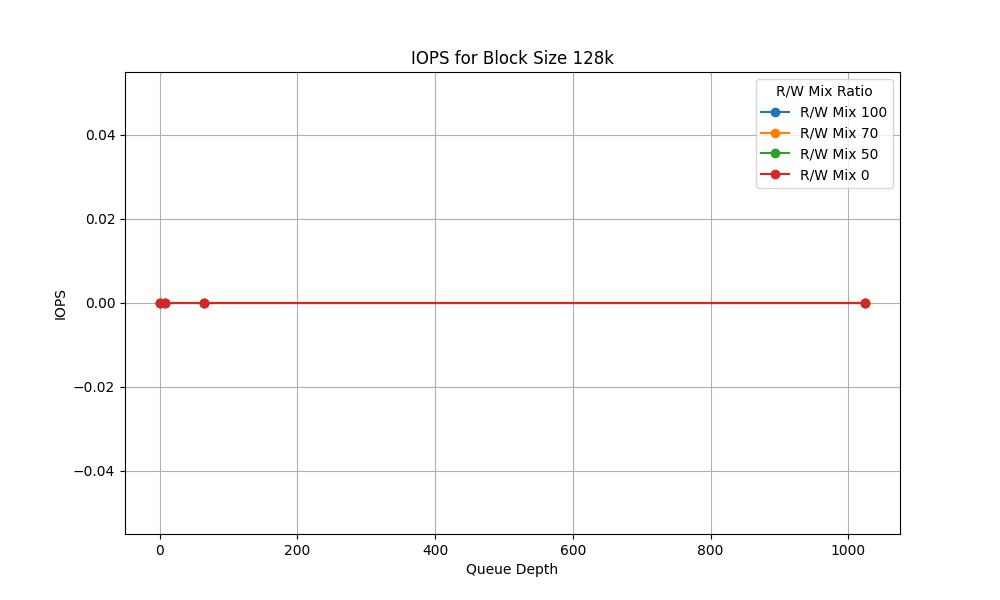
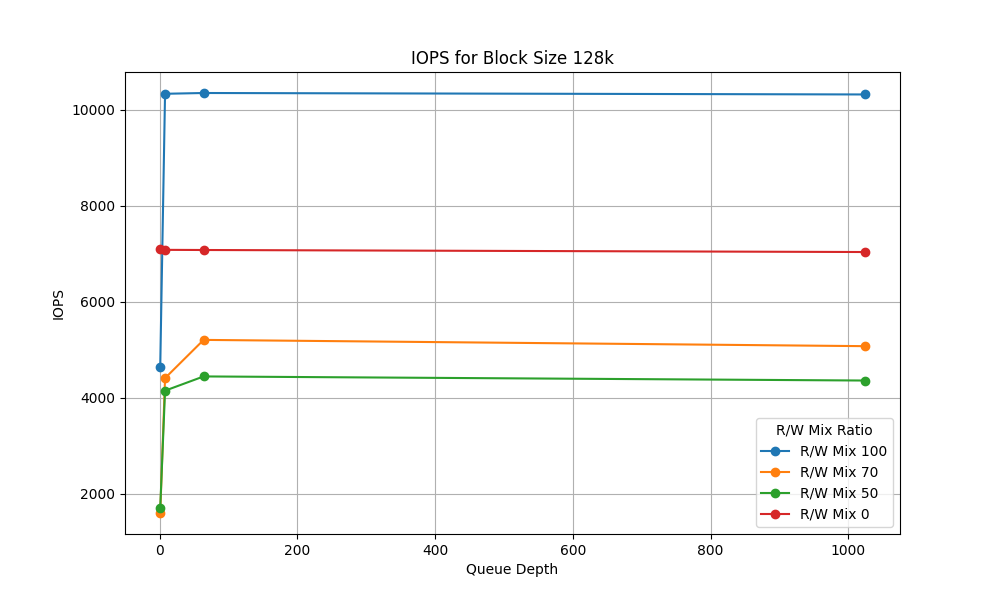
add 128k IOPS plot

diff --git a/proj3/plot_fio_results.py b/proj3/plot_fio_results.py
@@ -18,7 +18,6 @@ def parse_fio_json(file_path):
     read_lat = job['read']['clat_ns']['mean'] / 1000  # Convert ns to µs
     write_lat = job['write']['clat_ns']['mean'] / 1000 if job['write']['iops'] > 0 else None
     #bw = job['read']['bw'] if job['read']['bw'] > 0 else job['write']['bw']  # in KiB/s
-    iops = 0
     if job['job options']['bs'] == '128k':
         if job['read']['bw'] > 0 and job['write']['bw'] > 0:
             bw = job['read']['bw'] + job['write']['bw']
@@ -29,12 +28,12 @@ def parse_fio_json(file_path):
             bw = job['write']['bw']
     else:
         bw = 0
-        if job['read']['iops'] > 0 and job['write']['iops'] > 0:
-            iops = (job['read']['iops'] + job['write']['iops']) / 2
-        elif job['read']['iops'] > 0:
-            iops = job['read']['iops']
-        elif job['write']['iops'] > 0:
-            iops = job['write']['iops']
+    if job['read']['iops'] > 0 and job['write']['iops'] > 0:
+        iops = (job['read']['iops'] + job['write']['iops']) / 2
+    elif job['read']['iops'] > 0:
+        iops = job['read']['iops']
+    elif job['write']['iops'] > 0:
+        iops = job['write']['iops']
 
     return read_lat, write_lat, iops, bw
 

diff --git a/proj3/README.md b/proj3/README.md
@@ -60,6 +60,7 @@ Once again our data continues to follow the same trends we saw from the past two
 ### 128k Block Size
 
 ![128K Block Size, Latency Plot](./plots/latency_block_size_128k.png)
+![128K Block Size, IOPS Plot](./plots/IOPS_block_size_128k.png)
 ![128K Block Size, Bandwidth Plot](./plots/bandwidth_block_size_128k.png)
 
 Finally, here we see that our latencies are at their highest and our throughputs are at their lowest once converted to IOPS. (~10000 peak IOPS)
